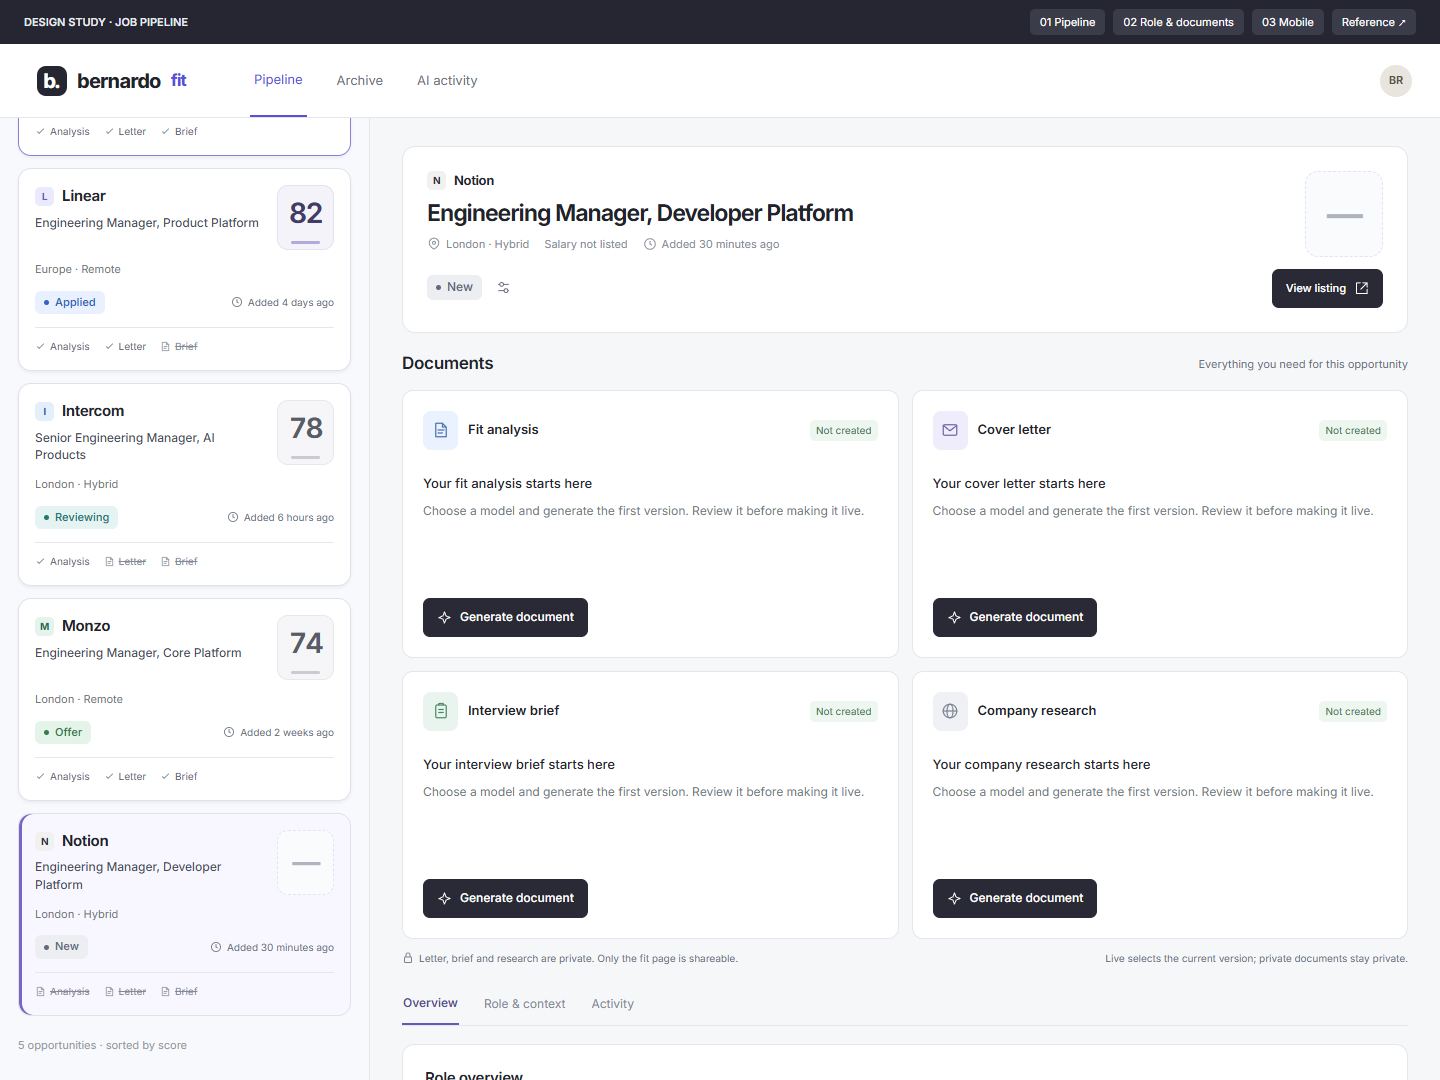
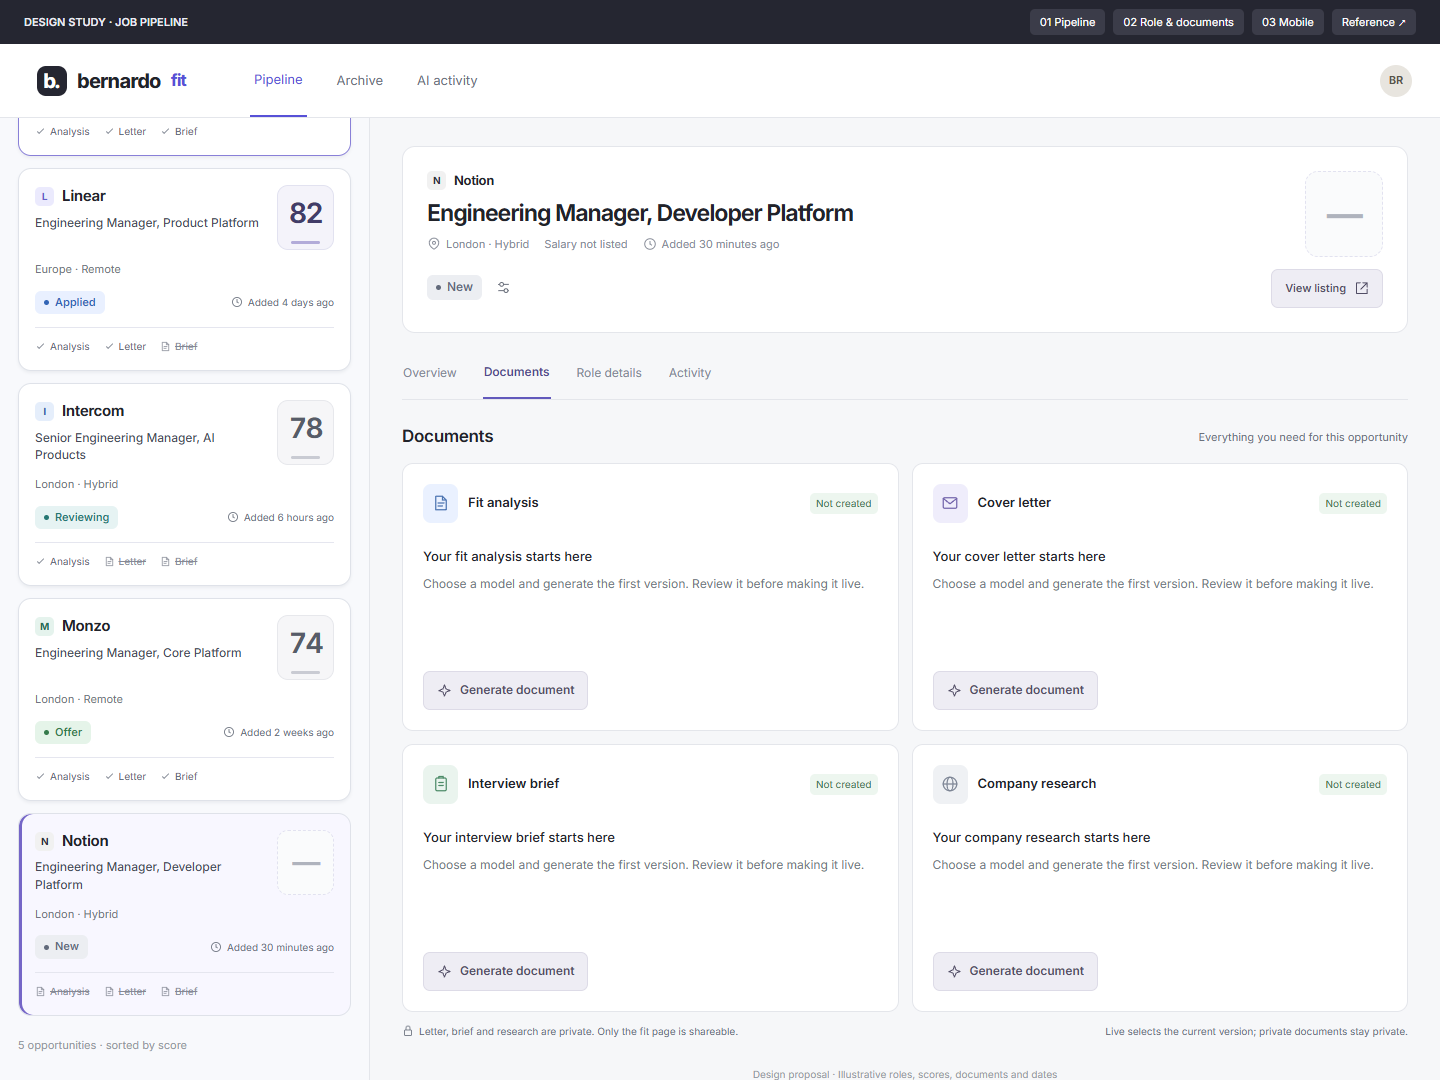
docs: organize job content into tabs and mute primary actions

diff --git a/docs/admin-ux/studio-mockups/index.html b/docs/admin-ux/studio-mockups/index.html
@@ -25,6 +25,10 @@
 @media(max-width:800px){.doc-grid{grid-template-columns:1fr}.document-top{flex-direction:row;align-items:center}.role-hero{gap:14px 10px}.role-hero .hero-text{min-width:0}.role-hero h1{font-size:18px}.score-actions .score{width:61px;height:70px;font-size:30px}.listing-link{font-size:10px;padding:7px;gap:5px}.listing-link svg{width:12px}.document-actions .btn{min-height:40px}.document-state{font-size:10px}}
 
 .doc-grid{align-items:start}.document-actions .btn{padding:8px;font-size:11px}.document-actions .btn[data-generate]{flex:1.4}.inline-versions{border-top:1px solid var(--line);margin-top:15px}.inline-versions summary{list-style:none;cursor:pointer;display:flex;align-items:center;gap:8px;padding:15px 0 0;font-size:12px;color:#60519d;min-height:40px}.inline-versions summary::-webkit-details-marker{display:none}.inline-versions summary:focus-visible{outline:2px solid var(--primary);outline-offset:4px;border-radius:3px}.inline-versions summary>svg{margin-left:auto;width:15px;height:15px;transition:transform .15s}.inline-versions[open] summary>svg{transform:rotate(90deg)}.version-count{font-size:10px;background:#efedf6;border-radius:4px;padding:1px 6px}.inline-versions .version-list{padding-top:9px}.inline-versions .version-row:last-child{margin-bottom:0}.inline-versions .version-row p{color:#69717e}.inline-versions .version-row{padding:12px}.inline-versions .version-row-head{font-size:12px}
+
+/* Muted primary actions keep the content hierarchy quiet. */
+.btn.dark{background:#eeedf4;border-color:#dddbe7;color:#514d65;font-weight:550;box-shadow:none}.btn.dark:hover{background:#e3e1ed;border-color:#c5c0d6}.btn.dark:active{background:#dcd8e8}.btn.dark:focus-visible{outline:2px solid #7566b2;outline-offset:3px}.role-tabs{margin-top:24px;gap:25px}.role-tabs button{min-height:42px}#role-content:focus-visible{outline:2px solid var(--primary);outline-offset:5px}.role-tabs+[role="tabpanel"]>.section-head{margin-top:24px}
+@media(max-width:800px){.role-tabs{gap:0;justify-content:space-between}.role-tabs button{font-size:12px;padding-left:3px;padding-right:3px}}
 </style>
 </head>
 <body>
@@ -52,13 +56,16 @@ function jobCard(j){return '<button class="job-card '+(selected.id===j.id?'selec
 function pipeline(){return '<div class="inbox-heading"><div><h1>Job pipeline</h1><p class="sub">5 opportunities</p></div><button class="btn" data-notice="Add opportunity" aria-label="Add opportunity">'+icon('plus')+'</button></div><div class="toolbar"><label class="search">'+icon('search')+'<input aria-label="Search jobs" placeholder="Search company or role…" id="search"></label><div class="filter-row"><select id="filter" aria-label="Filter by stage"><option value="all">All stages</option><option>Interviewing</option><option>Applied</option><option>Reviewing</option><option>Offer</option><option>New</option></select><select id="sort" aria-label="Sort roles"><option value="score">Highest score</option><option value="recent">Recently added</option></select></div></div><div class="job-list" id="job-list">'+jobs.map(jobCard).join('')+'</div><div class="list-foot"><span>5 opportunities · sorted by score</span></div>'}
 function docCard(title,type,color,meta,available=true){const d=documentState(title,available),live=d.versions.find(v=>v.id===d.live),latest=d.versions[0];return '<article class="document-card"><div class="document-top"><div class="document-identity"><div class="file-icon '+color+'">'+icon(type)+'</div><h3>'+title+'</h3></div><span class="document-state">'+(live?'Live · v'+live.id:latest?'Draft ready':'Not created')+'</span></div>'+(latest?'<div class="version-summary"><strong>'+ (live?'Version '+live.id:'Version '+latest.id+' · Draft')+'</strong><span>'+esc((live||latest).model)+'</span></div><p class="document-age">'+icon('clock')+'Created '+(live||latest).age+'</p>'+(latest.id!==d.live?'<p class="draft-note">'+(live?'v'+latest.id+' draft ready to review':'Review and publish your first version')+'</p>':'<p class="draft-note muted">'+d.versions.length+' saved versions</p>')+'<div class="document-actions"><button class="btn dark" data-open-version="'+title+'">Open '+(live?'live':'draft')+icon('external')+'</button><button class="btn" data-generate="'+title+'">'+icon('spark')+'Generate new version</button></div>'+inlineVersions(title,d):'<div class="document-empty"><strong>Your '+title.toLowerCase()+' starts here</strong><p>Choose a model and generate the first version. Review it before making it live.</p></div><button class="btn dark generate-first" data-generate="'+title+'">'+icon('spark')+'Generate document</button>')+'</article>'}
 
-function roleView(){return '<button class="focus-back" data-view="pipeline">'+icon('back')+'Back to pipeline</button><div class="role-hero"><div class="score-actions">'+score(selected)+'<a class="btn dark listing-link" href="https://example.com/jobs/'+selected.id+'" target="_blank" rel="noopener noreferrer" title="Illustrative URL — production uses the saved job posting URL">View listing '+icon('external')+'</a></div><div class="hero-text"><div class="company-line"><span class="monogram '+selected.id+'">'+selected.company[0]+'</span>'+selected.company+'</div><h1>'+selected.role+'</h1><div class="hero-meta"><span>'+icon('location')+selected.location+'</span><span>'+selected.salary+'</span><span>'+icon('clock')+'Added '+selected.age+'</span></div></div><div class="hero-right">'+badge(selected)+'<button class="btn quiet status-edit" data-notice="Change stage" aria-label="Change status" title="Change status">'+icon('settings')+'</button></div></div><div class="section-head"><h2>Documents</h2><span class="sub">Everything you need for this opportunity</span></div><div class="doc-grid">'+docCard('Fit analysis','file','blue','Saved document',selected.docs[0])+docCard('Cover letter','letter','','Saved document',selected.docs[1])+docCard('Interview brief','brief','green','Saved document',selected.docs[2])+docCard('Company research','globe','gray','Saved document',selected.docs[2])+'</div><div class="docs-foot"><span>'+icon('lock')+'Letter, brief and research are private. Only the fit page is shareable.</span><span>Live selects the current version; private documents stay private.</span></div><nav class="role-tabs" aria-label="Role sections"><button class="active" data-panel="overview">Overview</button><button data-panel="context">Role & context</button><button data-panel="activity">Activity</button></nav><div id="role-content">'+overview()+'</div><p class="prototype-note">Design proposal · Illustrative roles, scores, documents and dates</p>'}
+function documentsView(){return '<div class="section-head"><h2>Documents</h2><span class="sub">Everything you need for this opportunity</span></div><div class="doc-grid">'+docCard('Fit analysis','file','blue','Saved document',selected.docs[0])+docCard('Cover letter','letter','','Saved document',selected.docs[1])+docCard('Interview brief','brief','green','Saved document',selected.docs[2])+docCard('Company research','globe','gray','Saved document',selected.docs[2])+'</div><div class="docs-foot"><span>'+icon('lock')+'Letter, brief and research are private. Only the fit page is shareable.</span><span>Live selects the current version; private documents stay private.</span></div>'}
+function roleView(){return '<button class="focus-back" data-view="pipeline">'+icon('back')+'Back to pipeline</button><div class="role-hero"><div class="score-actions">'+score(selected)+'<a class="btn dark listing-link" href="https://example.com/jobs/'+selected.id+'" target="_blank" rel="noopener noreferrer" title="Illustrative URL — production uses the saved job posting URL">View listing '+icon('external')+'</a></div><div class="hero-text"><div class="company-line"><span class="monogram '+selected.id+'">'+selected.company[0]+'</span>'+selected.company+'</div><h1>'+selected.role+'</h1><div class="hero-meta"><span>'+icon('location')+selected.location+'</span><span>'+selected.salary+'</span><span>'+icon('clock')+'Added '+selected.age+'</span></div></div><div class="hero-right">'+badge(selected)+'<button class="btn quiet status-edit" data-notice="Change stage" aria-label="Change status" title="Change status">'+icon('settings')+'</button></div></div>'+roleTabs()+'<p class="prototype-note">Design proposal · Illustrative roles, scores, documents and dates</p>'}
+
 function overview(){if(selected.id!=='sanity')return '<section class="panel"><h2>Role overview</h2><p class="sub">Assessment details and recorded activity for '+selected.company+' will appear here. The Sanity example shows the proposed populated layout.</p></section>';return '<div class="detail-grid"><section class="panel"><h2>Why this role</h2><div class="reason">'+icon('check')+'<div><strong>A strong match for your developer experience background</strong><p>Platform leadership, developer tooling and building products for technical teams.</p></div></div><div class="reason">'+icon('check')+'<div><strong>Leadership with room to stay close to the product</strong><p>Own the team’s direction while partnering with engineering and design.</p></div></div><div class="reason">'+icon('check')+'<div><strong>Location and working pattern fit</strong><p>London-based with a hybrid setup and a relevant compensation range.</p></div></div><div class="attention"><b>Worth exploring</b><br>Clarify the team’s remit and the balance between people management and hands-on work.</div></section><aside class="panel"><h2>Recent activity</h2><ol class="timeline"><li>Interview brief updated<small>3 hours ago</small></li><li>Moved to Interviewing<small>Yesterday</small></li><li>Cover letter generated<small>Yesterday</small></li><li>Added to your pipeline<small>2 days ago</small></li></ol><div class="next-step"><strong>Ready for the conversation</strong><p>Your brief and company research are ready to open.</p></div></aside></div>'}
 function show(view,push=true){currentView=view;document.body.classList.toggle('mobile-preview',view==='mobile');document.body.classList.toggle('show-role',view==='role');const html=chrome();app.innerHTML=view==='mobile'?'<div class="mobile-wrap">'+html+'</div>':html;if(push)history.replaceState(null,'','?view='+view);wireFilters();window.scrollTo(0,0)}
 function selectJob(id){selected=jobs.find(j=>j.id===id);document.querySelector('.reading-pane').innerHTML=roleView();document.querySelectorAll('[data-job]').forEach(b=>{const active=b.dataset.job===id;b.classList.toggle('selected',active);b.setAttribute('aria-pressed',active)});document.body.classList.add('show-role');document.querySelector('.reading-pane').scrollTop=0;}
 function wireFilters(){const search=document.getElementById('search'),filter=document.getElementById('filter'),sort=document.getElementById('sort');if(!search)return;const refresh=()=>{let shown=jobs.filter(j=>(filter.value==='all'||filter.value===j.status)&&(j.company+' '+j.role).toLowerCase().includes(search.value.toLowerCase()));if(sort.value==='recent'){const order=['notion','intercom','sanity','linear','monzo'];shown.sort((a,b)=>order.indexOf(a.id)-order.indexOf(b.id))}document.getElementById('job-list').innerHTML=shown.map(jobCard).join('')||'<div class="empty-state">No matching opportunities.</div>';document.querySelector('.list-foot span').textContent=shown.length+' opportunities · '+(sort.value==='score'?'sorted by score':'recently added')};search.oninput=refresh;filter.onchange=refresh;sort.onchange=refresh}
 function preview(title,content){const d=document.getElementById('preview');document.getElementById('preview-title').textContent=title;document.getElementById('preview-text').textContent=content;d.showModal()}
-document.addEventListener('click',e=>{const button=e.target.closest('button');if(!button)return;if(button.dataset.view)show(button.dataset.view);if(button.dataset.job){selectJob(button.dataset.job)}if(button.dataset.score)preview('Assessment score', 'The large number is the existing fit score out of 100. The proposed design removes repeated “Fit” and tier labels, while keeping this accessible explanation.');if(button.dataset.doc)preview(button.dataset.doc,'This opens the saved document directly. In this design prototype it shows a placeholder; no generation or live data is involved.');if(button.dataset.notice)preview(button.dataset.notice,'This is a design preview. This control would use the existing application behavior when implemented.');if(button.dataset.filter){document.getElementById('filter').value=button.dataset.filter;document.getElementById('filter').dispatchEvent(new Event('change'));document.querySelectorAll('[data-filter]').forEach(b=>b.classList.toggle('active',b===button))}if(button.dataset.panel){document.querySelectorAll('[data-panel]').forEach(b=>b.classList.toggle('active',b===button));document.getElementById('role-content').innerHTML=button.dataset.panel==='overview'?overview():button.dataset.panel==='context'?'<section class="panel"><h2>Role & context</h2><p class="sub">The full description, posting, private notes and AI instructions belong here, in individually labelled editors.</p></section>':'<section class="panel"><h2>Activity & versions</h2><p class="sub">Available run outcomes, saved versions and recorded costs belong here. Exact history depends on the data the backend stores.</p></section>'}});
+document.addEventListener('click',e=>{const button=e.target.closest('button');if(!button)return;if(button.dataset.view)show(button.dataset.view);if(button.dataset.job){selectJob(button.dataset.job)}if(button.dataset.score)preview('Assessment score', 'The large number is the existing fit score out of 100. The proposed design removes repeated “Fit” and tier labels, while keeping this accessible explanation.');if(button.dataset.doc)preview(button.dataset.doc,'This opens the saved document directly. In this design prototype it shows a placeholder; no generation or live data is involved.');if(button.dataset.notice)preview(button.dataset.notice,'This is a design preview. This control would use the existing application behavior when implemented.');if(button.dataset.filter){document.getElementById('filter').value=button.dataset.filter;document.getElementById('filter').dispatchEvent(new Event('change'));document.querySelectorAll('[data-filter]').forEach(b=>b.classList.toggle('active',b===button))}if(button.dataset.panel)selectPanel(button.dataset.panel);});
+
 document.getElementById('close-preview').onclick=()=>document.getElementById('preview').close();
 if(new URLSearchParams(location.search).has('capture'))document.body.classList.add('capture');
 
@@ -74,6 +81,14 @@ function historyView(title,notice=''){activeDocument=title;manager.close();refre
 function generationView(title){activeDocument=title;const d=documentState(title);managerContent(d.versions.length?'Generate a new version':'Generate '+title,'<p class="intro">'+title+' · '+selected.company+'. Choose a model for this version. '+(d.live?'Your current live version stays in place until you publish the new one.':'The result will be saved as a draft for review.')+'</p><label for="generation-model">Model</label><select id="generation-model"><option>Sol</option><option>Astra</option><option>Sonnet</option><option>Opus</option></select><label for="generation-instructions">Instructions <span class="sub">(optional)</span></label><textarea id="generation-instructions" placeholder="What should this version improve?"></textarea><p class="demo-note">Design preview — no AI call or charge. Production uses configured models and generation cost confirmation.</p><div class="dialog-actions"><button class="btn" data-close-manager>Cancel</button><button class="btn dark" data-create-version>Generate draft '+icon('spark')+'</button></div>');}
 function versionPreview(id){const d=documentState(activeDocument),v=d.versions.find(v=>v.id===id);managerContent(activeDocument+' · v'+id,'<p class="intro">'+v.model+' · Created '+v.age+' · '+(d.live===id?'Live version':'Saved version')+'</p><div class="preview-copy"><strong>'+selected.company+' — '+activeDocument+'</strong><p>This is an illustrative document preview for version '+id+'. The application will show the actual saved content here so you can review it before publishing.</p></div><div class="dialog-actions"><button class="btn" data-history="'+activeDocument+'">Back to versions</button>'+(d.live!==id?'<button class="btn dark" data-publish-version="'+id+'">Publish live</button>':'')+'</div>');}
 document.addEventListener('click',e=>{const b=e.target.closest('button');if(!b)return;if(b.hasAttribute('data-close-manager'))manager.close();if(b.dataset.history)historyView(b.dataset.history);if(b.dataset.generate)generationView(b.dataset.generate);if(b.dataset.openVersion){activeDocument=b.dataset.openVersion;const d=documentState(activeDocument);versionPreview(d.live||d.versions[0].id);}if(b.closest('.inline-versions'))activeDocument=b.closest('.inline-versions').dataset.document;if(b.dataset.previewVersion)versionPreview(Number(b.dataset.previewVersion));if(b.hasAttribute('data-create-version')){const d=documentState(activeDocument),model=document.getElementById('generation-model').value;d.versions.unshift({id:(d.versions[0]?.id||0)+1,model,age:'just now'});historyView(activeDocument,'New draft created. Preview it, then publish when ready.');}if(b.dataset.publishVersion){const d=documentState(activeDocument);d.live=Number(b.dataset.publishVersion);historyView(activeDocument,'Version '+d.live+' is now live in this preview.');}});
+
+
+let activePanel=new URLSearchParams(location.search).get('panel')||'overview';
+if(!['overview','documents','details','activity'].includes(activePanel))activePanel='overview';
+function panelContent(){return activePanel==='overview'?overview():activePanel==='documents'?documentsView():activePanel==='details'?'<section class="panel"><h2>Role details</h2><p class="sub">The full description, original posting, private notes and AI instructions belong here, in individually labelled editors.</p></section>':'<section class="panel"><h2>Activity</h2><p class="sub">Recorded run outcomes, stage changes and costs belong here. Document version history is available within each document card.</p></section>';}
+function roleTabs(){return '<nav class="role-tabs" role="tablist" aria-label="Job sections">'+[['overview','Overview'],['documents','Documents'],['details','Role details'],['activity','Activity']].map(([id,label])=>'<button role="tab" id="tab-'+id+'" aria-controls="role-content" aria-selected="'+(activePanel===id)+'" tabindex="'+(activePanel===id?'0':'-1')+'" class="'+(activePanel===id?'active':'')+'" data-panel="'+id+'">'+label+'</button>').join('')+'</nav><div id="role-content" role="tabpanel" tabindex="0" aria-labelledby="tab-'+activePanel+'">'+panelContent()+'</div>';}
+function selectPanel(panel){activePanel=panel;document.querySelectorAll('[data-panel]').forEach(b=>{const active=b.dataset.panel===panel;b.classList.toggle('active',active);b.setAttribute('aria-selected',active);b.tabIndex=active?0:-1});const content=document.getElementById('role-content');content.setAttribute('aria-labelledby','tab-'+panel);content.innerHTML=panelContent();}
+document.addEventListener('keydown',e=>{if(!e.target.matches('[role="tab"]'))return;const tabs=Array.from(document.querySelectorAll('[role="tab"]'));let index=tabs.indexOf(e.target);if(e.key==='ArrowRight')index=(index+1)%tabs.length;else if(e.key==='ArrowLeft')index=(index+tabs.length-1)%tabs.length;else if(e.key==='Home')index=0;else if(e.key==='End')index=tabs.length-1;else return;e.preventDefault();selectPanel(tabs[index].dataset.panel);tabs[index].focus();});
 
 show(currentView,false);
 </script>

diff --git a/docs/admin-ux/studio-mockups/README.md b/docs/admin-ux/studio-mockups/README.md
@@ -15,7 +15,7 @@ Run `node docs/admin-ux/studio-mockups/preview.mjs --serve` and open http://127.
 
 Use an email-style two-pane workspace: top navigation, a left job index and a right reading pane, with independent scrolling. Keep search and filters intact when selecting another job. Each whole job card is a keyboard-accessible button with selected state; place the score on the right and omit the redundant View role link. Each card shows a large numeric score without repeated Fit or tier labels, a company and role, a named colored stage, a row of document availability indicators and relative time added. Preserve an accessible score description. Missing documents remain visibly unavailable in the list; generation belongs to an explicit action in each document card.
 
-Selecting a job updates the adjacent reading pane. A View listing link sits immediately below the fit score and opens the saved original posting in a new tab. An icon-only status control sits beside the status badge, with an accessible name and tooltip. Prototype links use explicit example.com placeholders because the roles are illustrative; production must use the real saved source URL and show an unavailable state when absent. Documents come first, ahead of overview and context sections. Keep the fit page's shareability distinct from private letter, brief and research documents. Opening an existing document never generates another one.
+Selecting a job updates the adjacent reading pane. A View listing link sits immediately below the fit score and opens the saved original posting in a new tab. An icon-only status control sits beside the status badge, with an accessible name and tooltip. Prototype links use explicit example.com placeholders because the roles are illustrative; production must use the real saved source URL and show an unavailable state when absent. The job header sits above four tabs in this order: Overview, Documents, Role details, Activity. Overview opens by default; documents and their version controls appear only within Documents. Keep the fit page's shareability distinct from private letter, brief and research documents. Opening an existing document never generates another one.
 
 Stage colors: violet Interviewing, blue Applied, teal Reviewing, green Offer, slate New, rose Rejected. Retain stage names and accessible contrast: color must not carry meaning alone. Map these variants to the application's existing status taxonomy when implementing.
 
@@ -31,7 +31,7 @@ Reviewed the free [AdminCN repository](https://github.com/shadcnstudio/shadcn-ne
 | Mail item layout | Separated job cards, metadata and timestamp row | Card, Button, Badge |
 | Navigation and user identity | Top navigation and workspace identity | Button, Avatar, Separator |
 | Badges | Consistent named stage colors | Badge variants |
-| User detail layouts | Focused role view with document cards first | Card, Tabs |
+| User detail layouts | Focused role view with four content tabs | Card, Tabs |
 | Document actions | Explicit open, version and generation actions | Button, DropdownMenu, Dialog, AlertDialog |
 | Search and filters | Compact controls with accessible labels | Input, Label, Select or NativeSelect |
 | Activity presentation | Recorded events and version outcomes | Semantic list and Separator |
@@ -69,3 +69,9 @@ Implement these compositions with shadcn Card, Badge, Button, Dialog, Select, La
 Open live and Generate new version share the main action row. Versions is a full-width collapsible section beneath it, with a version count and disclosure chevron. Its expanded list shows each version's model, relative creation time, live status, Preview and Publish live actions. Each card expands independently. Preview and model selection continue to use dialogs; returning from preview, generation or publishing opens the relevant inline history. The mockup uses native details/summary for keyboard-accessible disclosure; implementation should use shadcn Collapsible.
 
 Targeted checks cover keyboard expand/collapse, the absence of a version-list popup, preview, publication, and preservation of the live version while generating a draft.
+
+### Job tabs and muted actions
+
+Overview, Documents, Role details and Activity partition the reading pane. The selected tab stays active while browsing other jobs. Keyboard arrows, Home and End navigate the tabs; each tab has selected state and a labelled panel. Production should compose these using shadcn Tabs.
+
+Primary buttons use a pale neutral-purple fill, subtle border and dark text instead of a dark solid block, with distinct hover and keyboard focus states. This applies consistently to listing, open, generate and publish actions, including dialogs. The targeted verification covers tab order, keyboard selection, panel isolation and all document workflows within the Documents tab.
